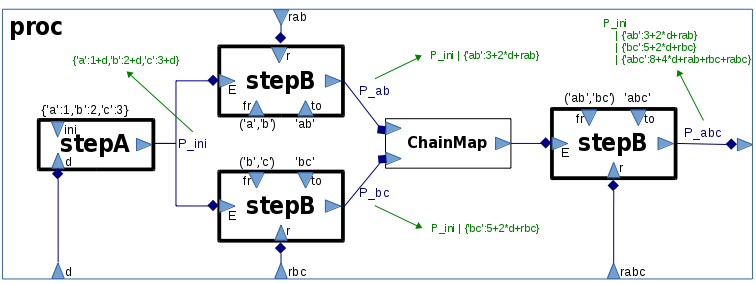
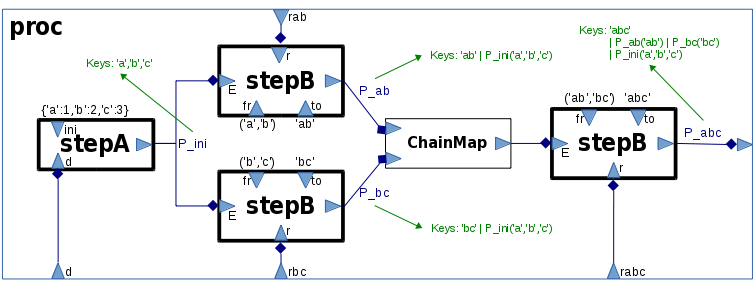
Updates

diff --git a/cache.py b/cache.py
@@ -163,6 +163,7 @@ Clears all the blocks which are obsolete.
     L = [k for k,c in list(self.items()) if strictf(c.functor.obsolete())]
     # this may load modules which add new (non obsolete) entries, hence out of transaction
     if dry_run: return L
+    if not L: return 0
     with self.connect() as conn:
       conn.create_function('obsolete',1,(lambda cell: cell in L))
       conn.execute('DELETE FROM Block WHERE obsolete(oid)')
@@ -232,7 +233,7 @@ A block object is callable, and calls take a single argument. Method :meth:`__ca
   - method :meth:`getval` takes as input an argument and must return its associated value (to be cached).
   - method :meth:`html` takes as input a byte string as returned by invocation of method :meth:`getkey` and must return an HTML formatted representation of the argument of that invocation.
 
-* The actual storage of values is delegated to a dedicated storage object which must implement the following api (e.g. implemented by class :class:`FileStorage`):
+* The actual storage of values is delegated to a dedicated storage object, defined in the parent :class:`CacheDB` object, which must implement the following api (e.g. implemented by class :class:`FileStorage`):
 
   - method :meth:`insert` is called inside the transaction which inserts a new cell into the index, hence exactly once overall for a given cell. It takes as input the cell id and must return the function to call to set its value. The returned function is called exactly once, but outside the transaction. It is passed the computed value and must return the size in bytes of its storage. The cell may have disappeared from the cache when called, or may disappear while executing, so the assignment may have to later be rolled back.
   - method :meth:`lookup` is called inside the transaction which looks up a cell from the index. There may be multiple such transactions in possibly concurrent threads/processes for a given cell. It takes as input the cell id and a boolean flag indicating whether the cell value is currently being computed by a concurrent thread/process, and must return the function to call to get its value. The returned function is called exactly once, but outside the transaction.
@@ -299,10 +300,10 @@ Returns information about this block. Available attributes:
 Implements cacheing as follows:
 
 - method :meth:`getkey` of the functor is invoked with argument *arg* to obtain a ``ckey``, then a transaction is begun on the index database.
-- If there already exists a cell with the same ``ckey``, method :meth:`lookup` of the storage is invoked to obtain a getter, then the transaction is terminated and the result is extracted, using the obtained getter.
-- If there does not exist a cell with the same ``ckey``, a cell with that ``ckey`` is created, and method :meth:`insert` of the storage is invoked to obtain a setter, then the transaction is terminated. Then method :meth:`getval` of the functor is invoked with argument *arg*. The result is stored, even if it is an exception, using the obtained setter.
+- If there already exists a cell with the same ``ckey``, method :meth:`lookup` of the storage is invoked to obtain a getter for that cell, then the transaction is terminated and the result is extracted, using the obtained getter.
+- If there does not exist a cell with the same ``ckey``, a cell with that ``ckey`` is created, and method :meth:`insert` of the storage is invoked to obtain a setter for that cell, then the transaction is terminated. Then, method :meth:`getval` of the functor is invoked with argument *arg* and its result is stored, even if it is an exception, using the obtained setter.
 
-If the result was an exception, it is raised, otherwise it is returned. In all cases, hit status is updated in the database.
+If the result is an exception, it is raised, otherwise it is returned. In all cases, the hit status of the cache block is updated in the database.
     """
 #--------------------------------------------------------------------------------------------------
     ckey = self.functor.getkey(arg)
@@ -469,12 +470,12 @@ def sig_load(x): return inspect.Signature(inspect.Parameter(name,kind,default=de
 #==================================================================================================
 class FileStorage:
   r"""
-Instances of this class manage the persistent storage of cache values using a filesystem directory.
+Instances of this class manage the persistent storage of cached values using a filesystem directory.
 
 :param path: the directory to store cached values
 :type path: :class:`pathlib.Path`
 
-The storage for a cell consists of a content file which contains the value of the cell in pickled format and a cross process mechanism to synchronise access to the content file between writer and possibly multiple readers. The names of the content file as well as the file underlying the synch lock are built from the cell id, so as to be unique to that cell. They inherit the access rights of the *path* directory.
+The storage for a cell consists of a content file which contains the value of the cell in pickled format and a cross process mechanism to synchronise access to the content file between writer and possibly multiple readers. The path of the content file as well as that of the file underlying the synch lock are built from the cell id, so as to be unique to that cell. They inherit the access rights of the :attr:`path` directory.
 
 Attributes:
 
@@ -493,7 +494,7 @@ Methods:
 #--------------------------------------------------------------------------------------------------
   def insert(self,cell):
     r"""
-Opens the content file path in write mode, acquires the synch lock, then returns a :func:`setval` function which pickle-dumps its argument into the content file, closes it and releases the synch lock.
+Opens the content file path for *cell* in write mode, acquires the corresponding synch lock, then returns a setter function which pickle-dumps its argument into the content file, closes it and releases the synch lock.
     """
 #--------------------------------------------------------------------------------------------------
     def setval(val):
@@ -514,7 +515,7 @@ Opens the content file path in write mode, acquires the synch lock, then returns
 #--------------------------------------------------------------------------------------------------
   def lookup(self,cell,wait):
     r"""
-Opens the content file path in read mode and returns a :func:`getval` function which waits for the synch lock to be released (if *wait* is True), then pickle-loads the content file and returns the obtained value.
+Opens the content file path for *cell* in read mode, then returns a getter function which waits for the corresponding synch lock to be released (if *wait* is True), then pickle-loads the content file and returns the obtained value.
     """
 #--------------------------------------------------------------------------------------------------
     def getval():
@@ -529,7 +530,7 @@ Opens the content file path in read mode and returns a :func:`getval` function w
 #--------------------------------------------------------------------------------------------------
   def remove(self,cell,size):
     r"""
-Removes the content file path and as well as the synch lock.
+Removes the content file path for *cell* as well as the corresponding synch lock.
     """
 #--------------------------------------------------------------------------------------------------
     vpath = self.getpath(cell)
@@ -538,6 +539,9 @@ Removes the content file path and as well as the synch lock.
 
 #--------------------------------------------------------------------------------------------------
   def getpath(self,cell):
+    r"""
+Returns the content file path (as a :class:`pathlib.Path` instance) associated to *cell* (of type :class:`int`). It is composed of two parts (a directory name and a file name), joined to the main :attr:`path` attribute. The directory is created if it does not already exist. The concatenation of the directory name (without its prefix ``X``) and the file name (without its suffix ``.pck``) is the representation of *cell* in base 32 (digits are 0-9A-V). This mapping of cells to paths ensures that no sub-directory holds more than 1024 cells. It assumes that cells are created sequentially (which is what AUTOINCREMENT in sqlite3 does), so the number of sub-directories grows slowly.
+    """
 #--------------------------------------------------------------------------------------------------
     def dec(x):
       while x: yield '0123456789ABCDEFGHIJKLMNOPQRSTUV'[x&31]; x >>= 5
@@ -549,7 +553,7 @@ Removes the content file path and as well as the synch lock.
     return (p/n[1::-1]).with_suffix('.pck')
 
 #--------------------------------------------------------------------------------------------------
-# Synchronisation mechanism based on sqlite (for portability: could be simplified)
+# Synchronisation mechanism based on sqlite (for portability: could probably be simplified)
 #--------------------------------------------------------------------------------------------------
 
   @staticmethod
@@ -641,6 +645,9 @@ Instances of this class are defined from versioned functions (ie. functions defi
     module,name,version = self.config
     return '{}.{}{}'.format(module,name,('' if version is None else '{{{}}}'.format(version)))
   def obsolete(self):
+    r"""
+Returns :const:`None` if this instance is up-to-date. It may be obsolete for two reasons: the function it refers to (by module name, function name and version) cannot be imported or is not a versioned function (in which case the empty tuple is returned) or it has a different version (in which case the pair of the current version of the imported function and the version of this instance is returned). Note that this method may import modules which in turn may create cache entries (for new versions of functions). It should therefore not be called in a cache transaction.
+    """
     from importlib import import_module
     module,name,version = self.config
     try:

diff --git a/doc/cache.rst b/doc/cache.rst
@@ -41,19 +41,29 @@ Typical output:
 
 Discussion
 ----------
-When a cache cell is created by an invocation, any versioned function which appears in any of its arguments at any level is memorised together with its version, so the cache cell is later invalidated (but not removed) if the version of any of these functions is updated. For example, in the last demo, the result of :func:`proc` is a symbolic invocation of :func:`stepB` whose first argument embeds two other symbolic invocations of :func:`stepB` and one of :func:`stepA`. If :func:`stepA` were versioned, and its version had changed between two incarnations of the result of :func:`proc` in distinct processes, the top cell for the first incarnation (attached to :func:`stepB`) would not be hit by the second incarnation, even though the version of :func:`stepB` has not changed.
 
-Note that function :func:`stepB` has the structure of a generic task executor::
+Persistent cacheing and versioned functions
+...........................................
+When a cache cell is created by an invocation, any versioned function which appears in any of its arguments at any level is memorised together with its version, so the cache cell is later missed (but not removed) if the version of any of these functions has changed. For example, suppose a function ``f`` is persistently cached and has a cell obtained by an invocation ``f(3,g)`` where ``g`` is a versioned function. Another invocation of the same ``f(3,g)`` later in another process may miss the cell for any of the following reasons:
+
+* the calling function ``f`` has a new version (recall that persistently cached functions are always versioned);
+* the argument function ``g`` has a new version.
+
+In the example above, the first argument of the persistently cached function :func:`stepB` is typically a symbolic expression (instance of class :class:`Expr`) which contains references at different depths to other functions, in particular :func:`stepA`. So if the latter were versioned and its version changed, the corresponding cache cells for function :func:`stepB` would be missed, even if the version of :func:`stepB` were not changed.
+
+Persistent cacheing with symbolic expressions for workflow task execution
+.........................................................................
+A typical workflow task executor (see e.g. function :func:`stepB` in the example above) looks like this::
 
    def task_exec(E,...):
      ...
      return ChainMap({...},E)
 
-Keeping in mind that *E*, which captures all the previous tasks, is typically an instance of :class:`MapExpr`, hence immutable, it is not possible to directly update *E*, but an alternative to the last line could still be::
+Typically *E* is an instance of :class:`MapExpr` whose configuration describes all the previous tasks in the workflow. Its incarnation is the set of key-value pairs computed by the previous tasks. The new task enriches this set of key-value pairs with some new items. Since *E* is immutable, it is not possible to directly update it, but a functionally equivalent alternative to the last line could still be::
 
    E = dict(E); E.update({...}); return E
 
-The cached value would then be a regular dict containing all the keys already present in *E*, typically assigned by previous tasks, plus those computed by that task. The advantage would be that a single cache lookup gives access to the computed results of all the tasks. On the other hand, the drawback is that the cached value might be large, and mostly redundant with the cached values of the previous tasks. With the :func:`ChainMap` solution, the cached value contains *E* directly, the storage of which only involves its configuration, which is typically of negligible size compared to its value. The price to pay is that access to the results of previous tasks requires re-accessing the cache, but that overhead is often small and worth the economy in total cache size.
+In both cases, the same key-value pairs are returned. There is an important difference though. The cached value in the alternative is a regular dict containing all the keys already present in *E* (recursively incarnated by its conversion to a dict), typically assigned by the previous tasks, plus those computed by the new task. The advantage of that solution is that a single cache lookup gives access to the computed results of all the tasks up to the current one. On the other hand, the drawback is that this cached value might be large, and mostly redundant with the cached values of the previous tasks. With the :func:`ChainMap` solution, only the configuration of *E*, not its incarnation, is stored, and it is usually of negligible size compared to its incarnation. The price to pay is that access to the results of previous tasks now requires re-incarnating *E* hence re-accessing the cache, but that overhead is often small and worth the economy in overall cache redundancy.
 
 Available types and functions
 -----------------------------
@@ -62,4 +72,3 @@ Available types and functions
    :members:
    :member-order: bysource
    :show-inheritance:
-
